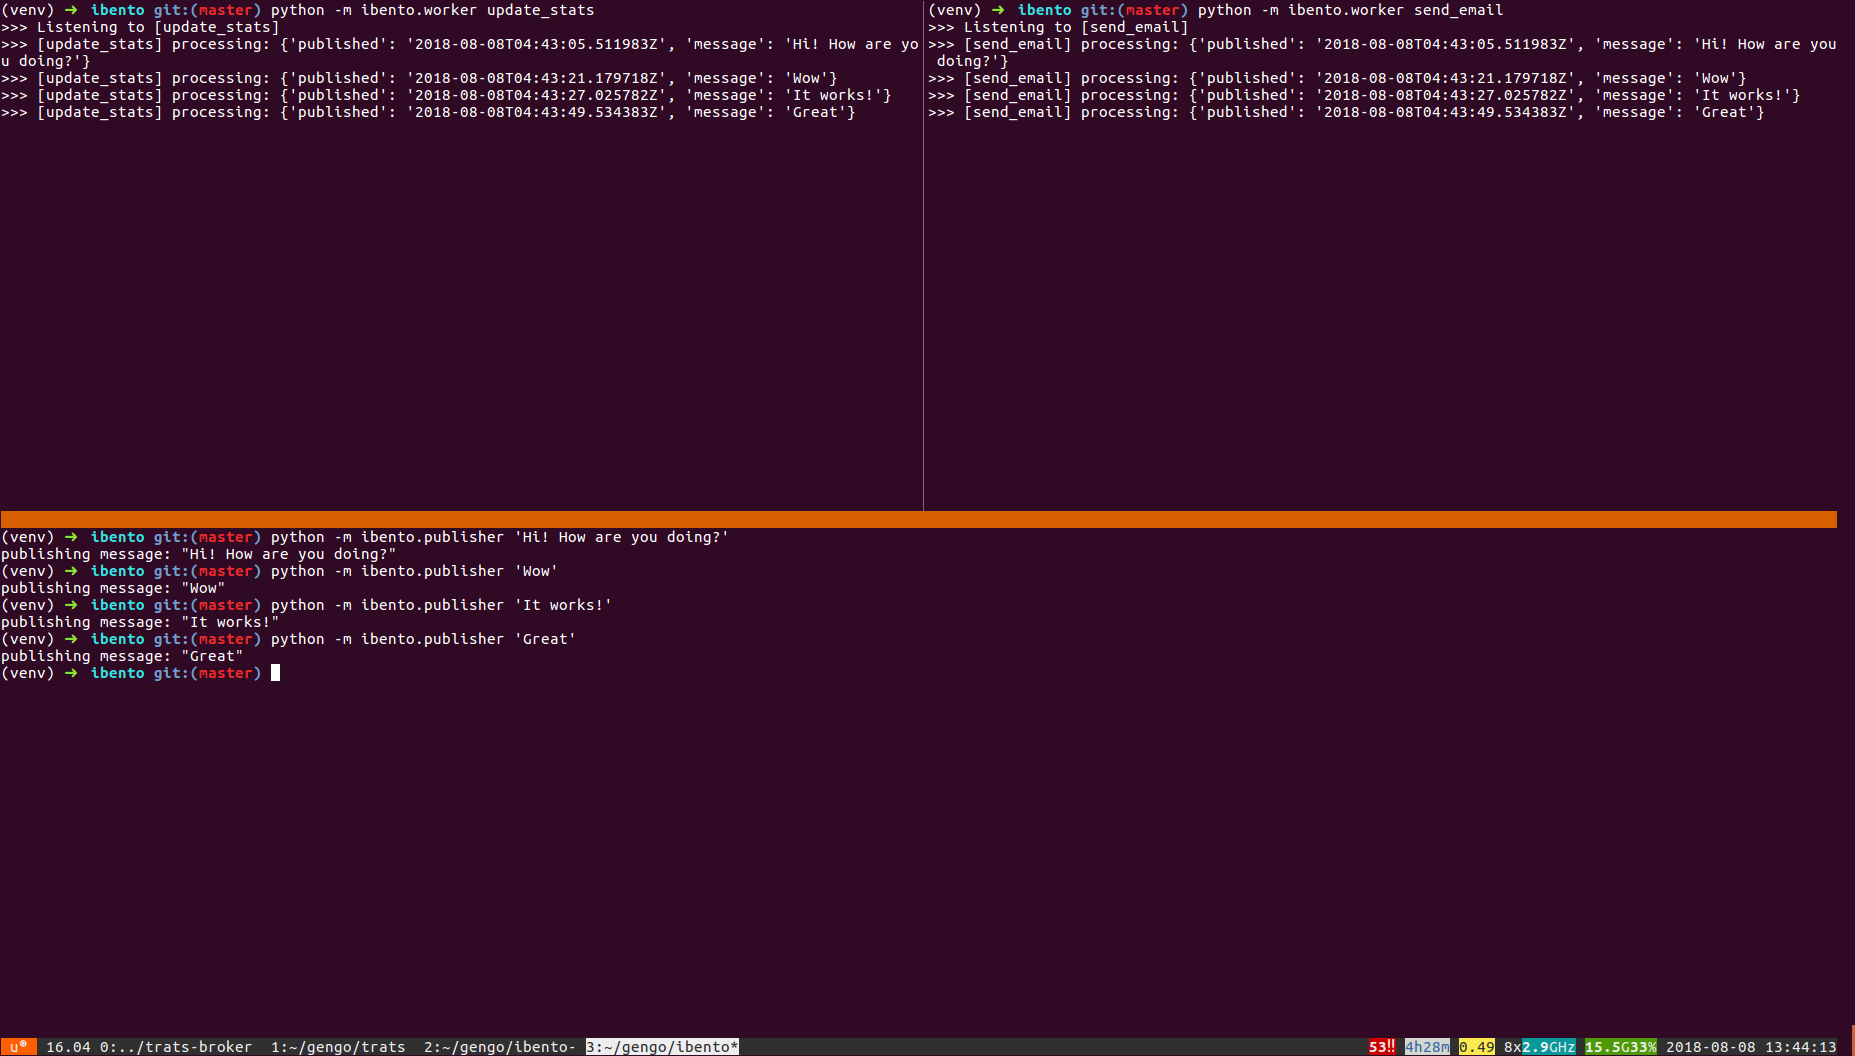
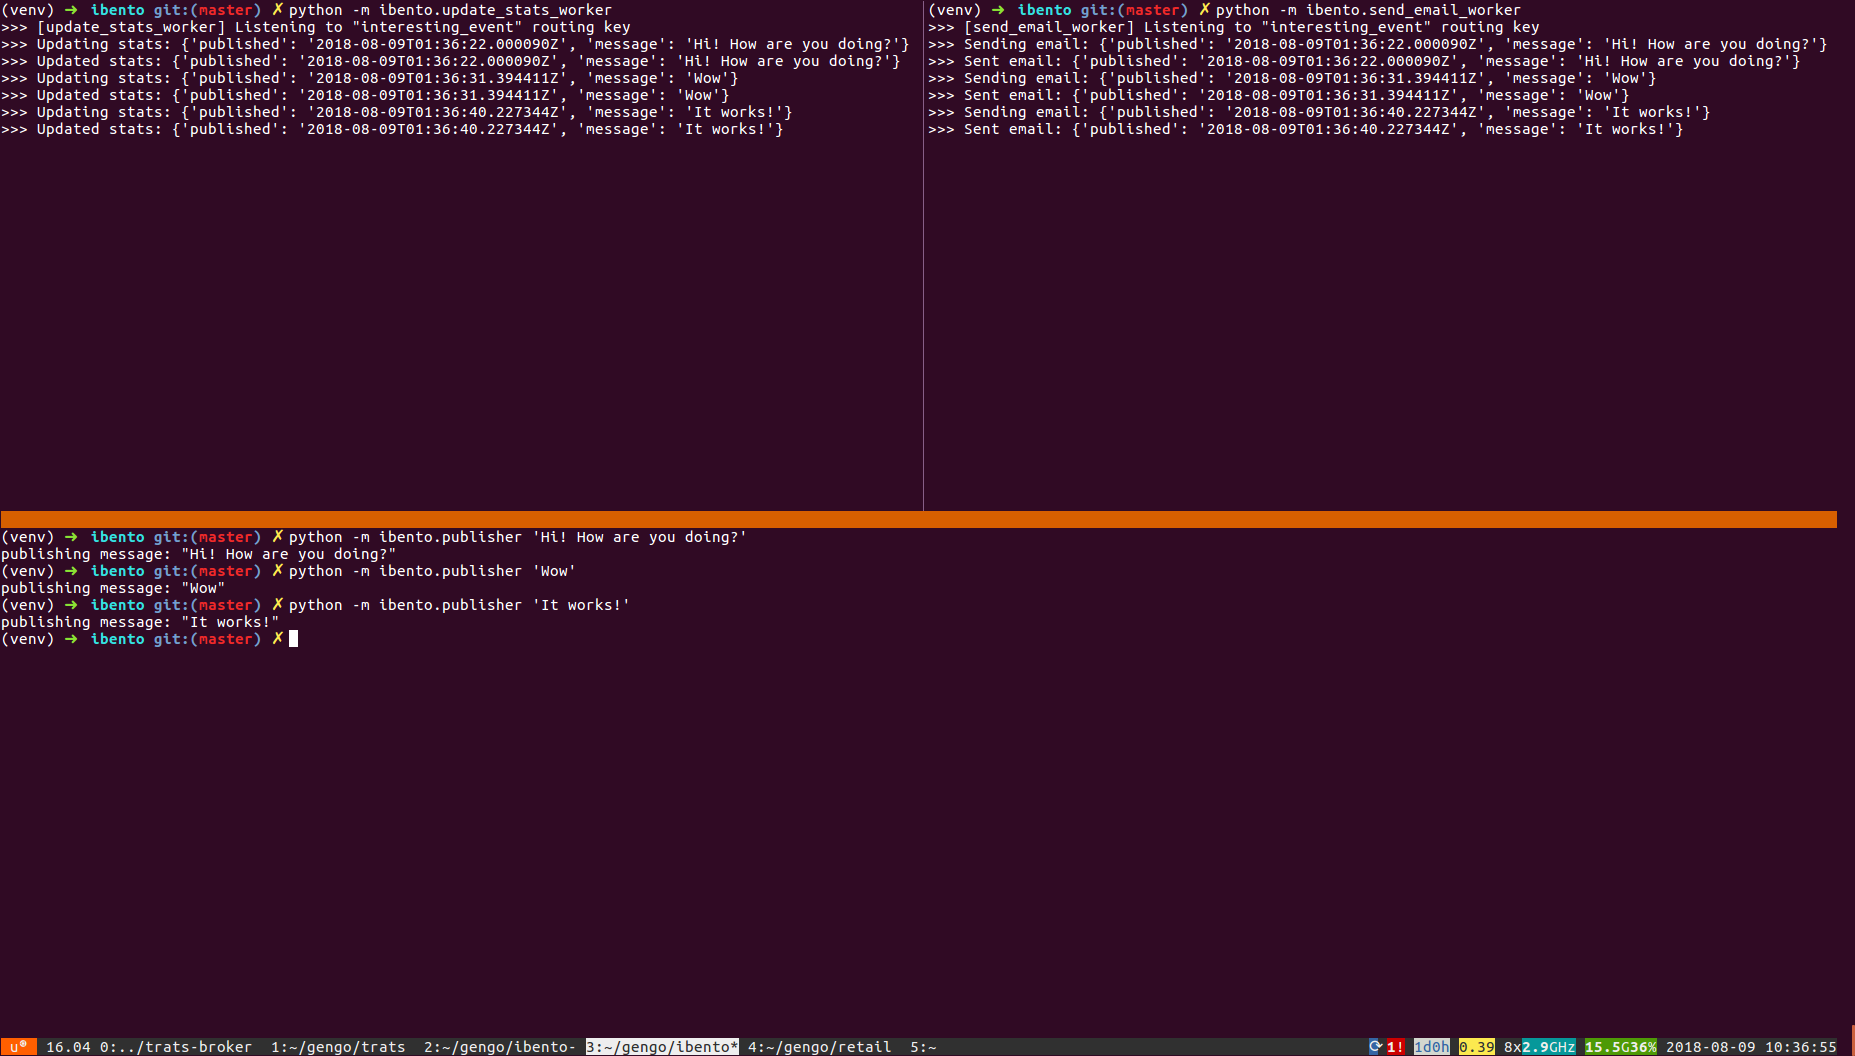
Split workers in two files for clarity

diff --git a/ibento/common.py b/ibento/common.py
@@ -18,9 +18,9 @@ def listen_to_event(queue_name: str, callback: Callable):
         bindings = [binding(some_exchange, routing_key=EVENT_KEY)]
         queue = Queue(queue_name, exchange=some_exchange, routing_key=EVENT_KEY, bindings=bindings)
         with Consumer(conn, [queue], callbacks=[callback], auto_declare=True):
-            print(f'>>> Listening to [{queue_name}]')
+            print(f'>>> [{queue_name}] Listening to "{EVENT_KEY}" routing key')
             try:
                 while True:
                     conn.drain_events()
             except (KeyboardInterrupt, SystemExit):
-                print(f'>>> Stopped listening on {queue_name}')
+                print(f'>>> [{queue_name}] Stopped listening to "{EVENT_KEY}"')

diff --git a/ibento/update_stats_worker.py b/ibento/update_stats_worker.py
@@ -1,0 +1,13 @@
+import time
+
+from ibento.common import listen_to_event
+
+
+def process_message(body, message):
+    print(f'>>> Updating stats:', body)
+    time.sleep(.5)
+    print(f'>>> Updated stats:', body)
+    message.ack()
+
+
+listen_to_event(queue_name='update_stats_worker', callback=process_message)

diff --git a/ibento/send_email_worker.py b/ibento/send_email_worker.py
@@ -1,0 +1,13 @@
+import time
+
+from ibento.common import listen_to_event
+
+
+def process_message(body, message):
+    print(f'>>> Sending email:', body)
+    time.sleep(1)
+    print(f'>>> Sent email:', body)
+    message.ack()
+
+
+listen_to_event(queue_name='send_email_worker', callback=process_message)

diff --git a/README.md b/README.md
@@ -30,12 +30,12 @@ Open 3 shells, make sure to activate the `venv` virtual env in it.
 
 In the first shell, let's start a worker listening on the `interesting_event` routing key and updating some stats:
 ```bash
-python -m ibento.worker update_stats
+python -m ibento.update_stats_worker
 ```
 
 In the second shell, let's start another worker listening on the same `interesting_event` routing key but sending an email:
 ```bash
-python -m ibento.worker send_email
+python -m ibento.send_email_worker
 ```
 
 In the last one, let's publish messages on this `interesting_event` routing key:
